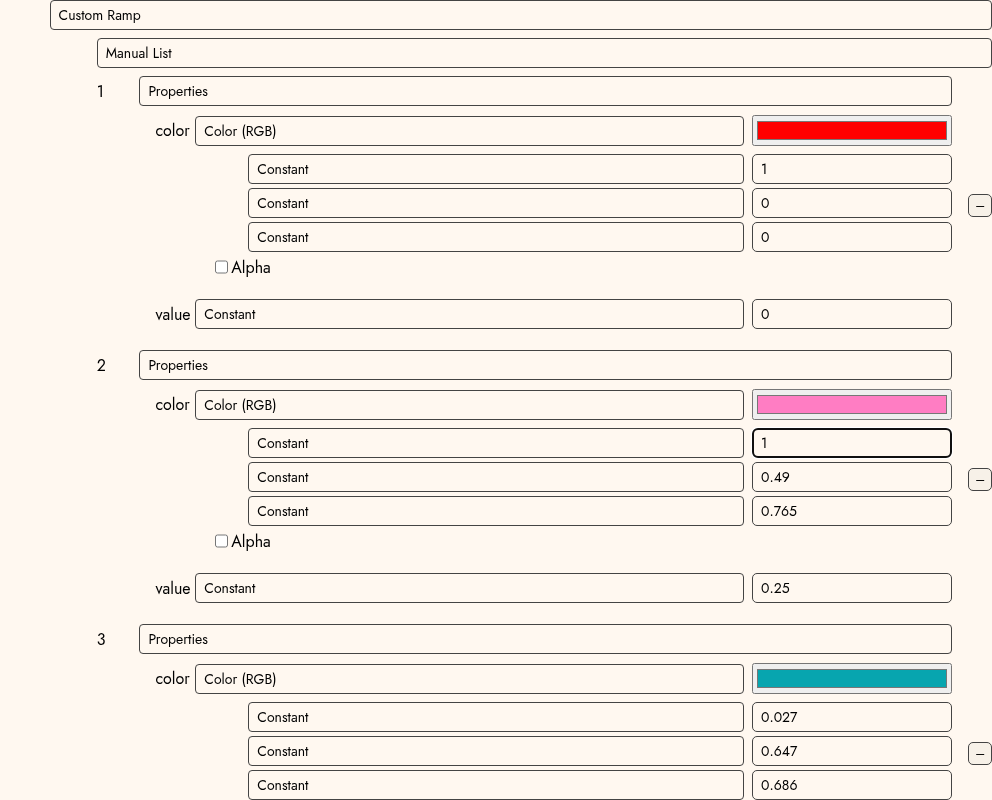
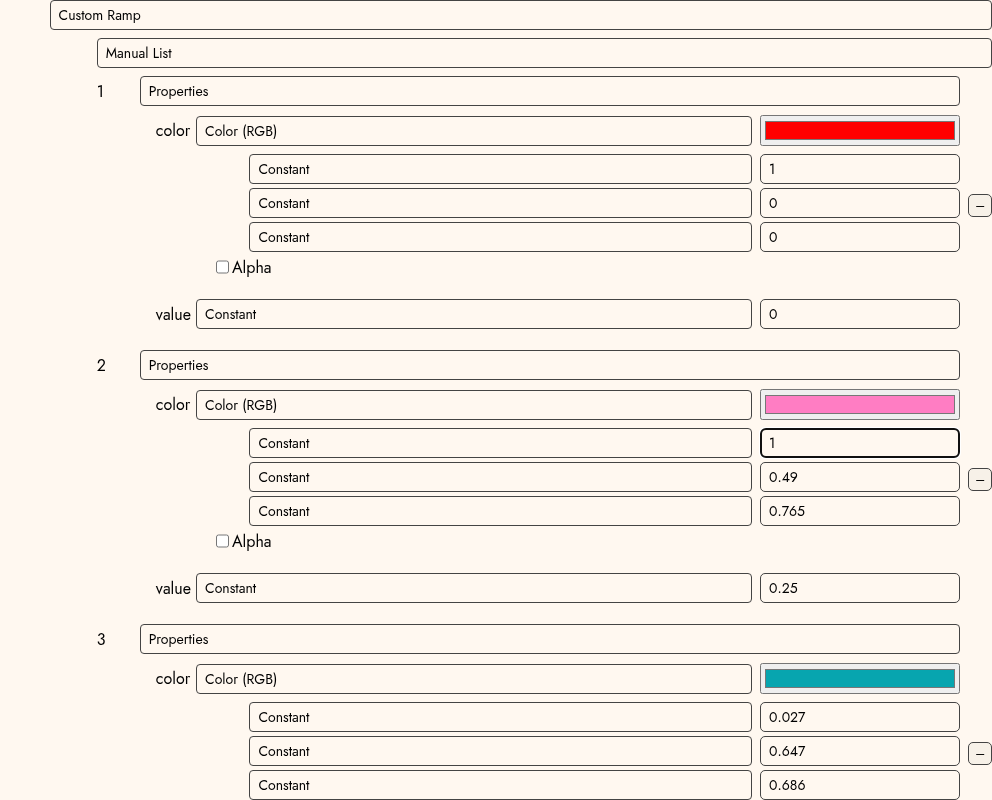
less left margin remove element (#1409)

diff --git a/react/src/mapper/settings/AutoUXEditor.tsx b/react/src/mapper/settings/AutoUXEditor.tsx
@@ -232,7 +232,7 @@ export function AutoUXEditor(props: {
                                 label={`${i + 1}`}
                             />
                             <button
-                                style={{ marginLeft: 8, flexShrink: 0 }}
+                                style={{ flexShrink: 0 }}
                                 onClick={() => {
                                     const newElements = uss.elements.filter((_, j) => j !== i)
                                     props.setUss({ ...uss, elements: newElements })
